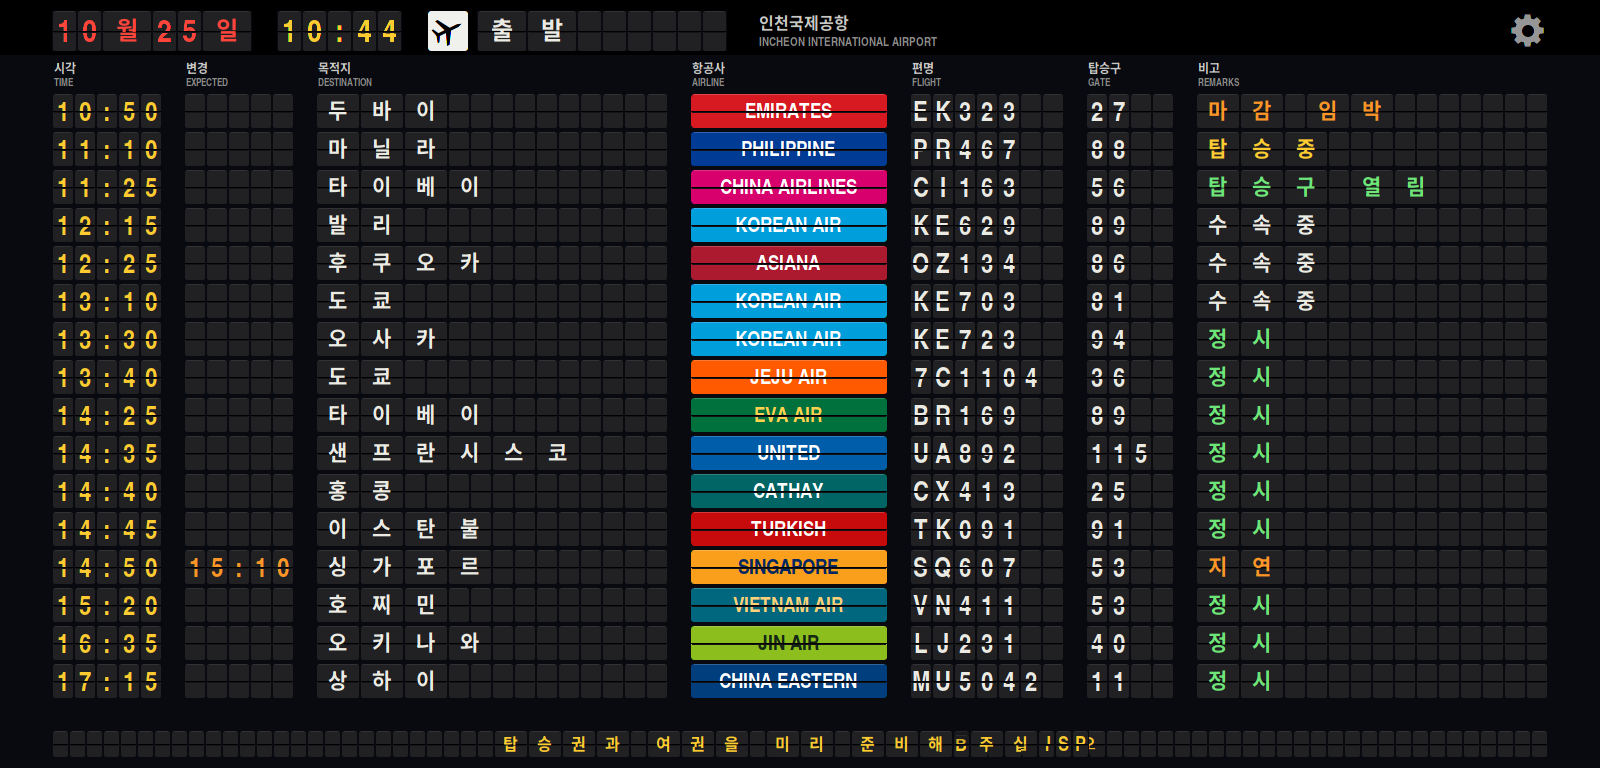
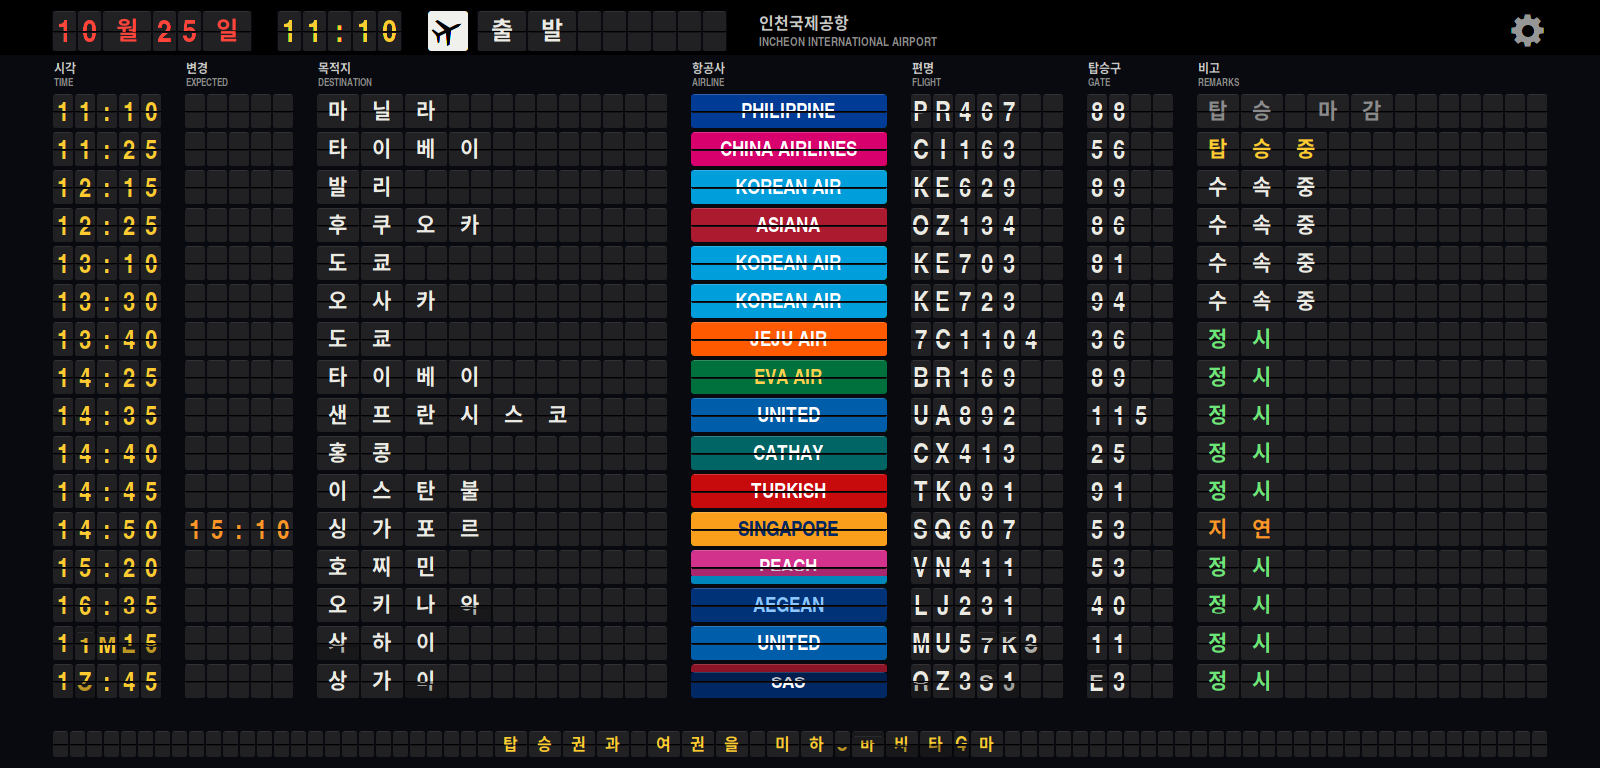
Flip Hangul, kana and Han through their own script
A wide character's two cells now rattle through the same characters, taken
from its own script, instead of each half showing a random Latin letter.

diff --git a/src/Board.cpp b/src/Board.cpp
@@ -56,6 +56,9 @@ static const rgb_color kColors[COLOR_COUNT] = {
 };
 
 static const char* kRattle = "ABCDEFGHIJKLMNOPQRSTUVWXYZ0123456789";
+static const char* kRattleHangul = "가나다라마바사아자차카타파하";
+static const char* kRattleKana = "アイウエオカキクケコサシスセソ";
+static const char* kRattleHan = "東西南北中大小上下山川日月";
 
 // The columns of a row, in cells.
 static const int kColumnStart[] = { 0, 6, 12, 29, 39, 47, 52 };
@@ -852,12 +855,19 @@ BoardView::_SetField(int index, const char* text, int color, bigtime_t delay)
 	else if (field.align == ALIGN_CENTER)
 		offset = (field.count - used) / 2;
 
+	// What each cell should end up showing, and which character (unit) it
+	// is part of: the two cells of a Hangul or Han character flip together,
+	// through the same characters.
 	BBitmap* targets[128];
-	for (int i = 0; i < field.count; i++)
+	int unitOf[128];
+	for (int i = 0; i < field.count; i++) {
 		targets[i] = _Blank(field.sizeClass);
+		unitOf[i] = -1;
+	}
 	int at = offset;
 	for (int u = 0; u < fit; u++) {
 		for (int p = 0; p < units[u].width; p++) {
+			unitOf[at] = u;
 			targets[at++] = _Face(field.sizeClass, color, units[u].glyph,
 				units[u].width, p);
 		}
@@ -865,22 +875,53 @@ BoardView::_SetField(int index, const char* text, int color, bigtime_t delay)
 
 	bigtime_t now = system_time();
 	for (int i = 0; i < field.count; i++) {
-		Cell& cell = fCells[field.first + i];
-		BBitmap* last = cell.queued > 0 ? cell.queue[cell.queued - 1]
-			: cell.current;
-		if (targets[i] == last)
+		int width = unitOf[i] >= 0 ? units[unitOf[i]].width : 1;
+		bool changed = false;
+		for (int p = 0; p < width; p++) {
+			Cell& cell = fCells[field.first + i + p];
+			BBitmap* last = cell.queued > 0 ? cell.queue[cell.queued - 1]
+				: cell.current;
+			changed = changed || targets[i + p] != last;
+		}
+		if (!changed) {
+			i += width - 1;
 			continue;
-		BBitmap* rattle[4];
-		fRandom = fRandom * 1103515245 + 12345;
-		int n = 1 + (fRandom >> 16) % 3;
-		for (int k = 0; k < n; k++) {
-			fRandom = fRandom * 1103515245 + 12345;
-			char g[2] = { kRattle[(fRandom >> 16) % 36], '\0' };
-			rattle[k] = _Face(field.sizeClass, color, g, 1, 0);
+		}
+
+		// A mechanical flap passes through characters of its own kind:
+		// Latin letters for Latin, Hangul for Hangul, kana for kana.
+		const char* set = NULL;
+		if (unitOf[i] >= 0 && width == 2) {
+			const char* g = units[unitOf[i]].glyph;
+			uint32 c = utf8_code(g, utf8_length((uint8)g[0]));
+			set = c >= 0xac00 && c <= 0xd7a3 ? kRattleHangul
+				: c >= 0x3040 && c <= 0x30ff ? kRattleKana : kRattleHan;
 		}
 		fRandom = fRandom * 1103515245 + 12345;
-		_Enqueue(cell, targets[i], rattle, n,
-			now + delay + i * 18000 + (fRandom >> 16) % 90000);
+		int n = 1 + (fRandom >> 16) % 3;
+		char glyphs[4][8];
+		for (int k = 0; k < n; k++) {
+			fRandom = fRandom * 1103515245 + 12345;
+			if (set != NULL) {
+				// Every character in the set is three bytes of UTF-8.
+				int count = strlen(set) / 3;
+				memcpy(glyphs[k], set + ((fRandom >> 16) % count) * 3, 3);
+				glyphs[k][3] = '\0';
+			} else {
+				glyphs[k][0] = kRattle[(fRandom >> 16) % 36];
+				glyphs[k][1] = '\0';
+			}
+		}
+		fRandom = fRandom * 1103515245 + 12345;
+		bigtime_t start = now + delay + i * 18000 + (fRandom >> 16) % 90000;
+		for (int p = 0; p < width; p++) {
+			BBitmap* rattle[4];
+			for (int k = 0; k < n; k++)
+				rattle[k] = _Face(field.sizeClass, color, glyphs[k], width, p);
+			_Enqueue(fCells[field.first + i + p], targets[i + p], rattle, n,
+				start);
+		}
+		i += width - 1;
 	}
 }
 
